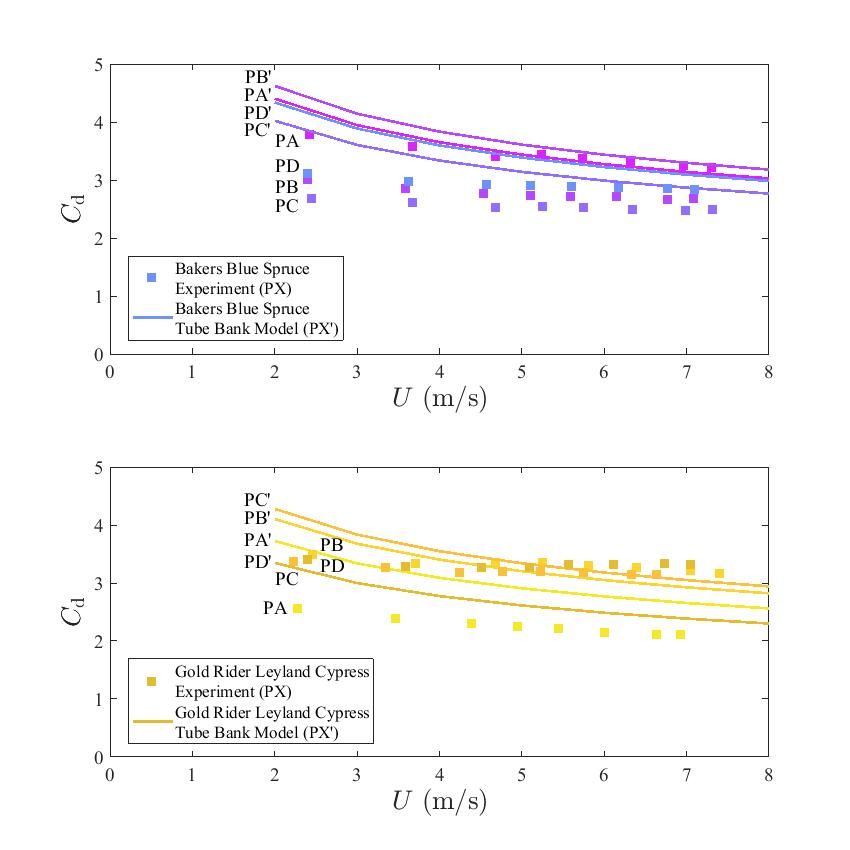
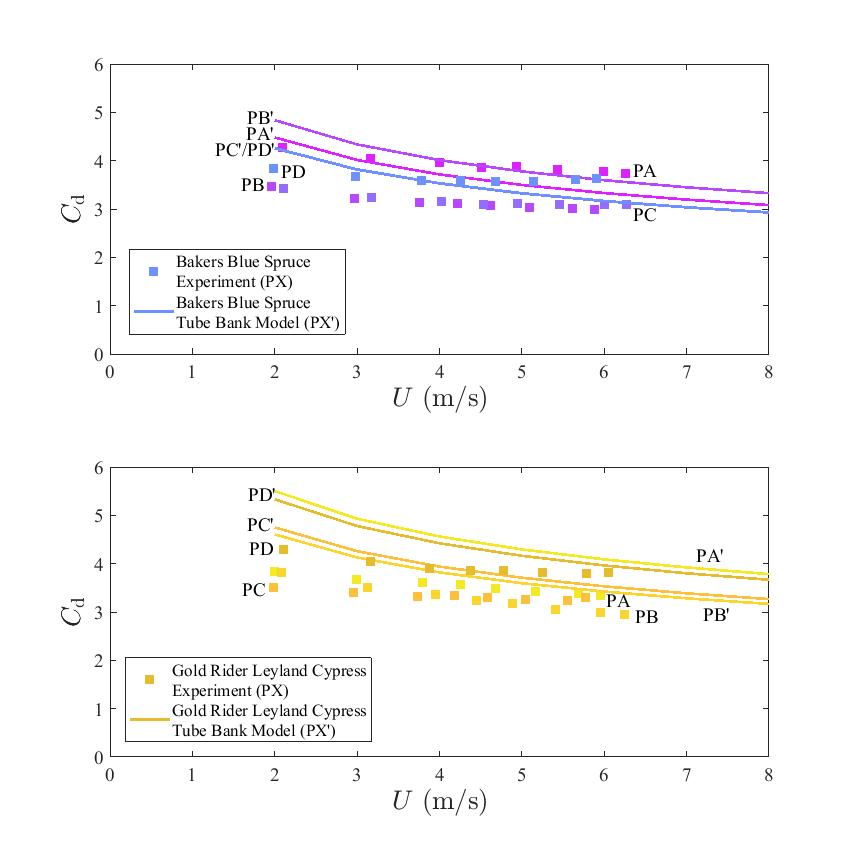
Edited Uncertainty and Tube Bank Section

diff --git a/Tech_Note/main.tex b/Tech_Note/main.tex
@@ -21,6 +21,7 @@
 \usepackage{secdot}
 \usepackage{siunitx} % Formats the units and values
 \usepackage{tabulary}
+%\usepackage{tablefootnote}
 \usepackage{textgreek}
 \usepackage{textcomp}
 \usepackage{tikz}
@@ -65,7 +66,7 @@
 \captionsetup{font=small,labelfont=bf,figurename=Fig.,labelsep=period,justification=raggedright}
 
 \newcommand*\textfrac[2]{
-  \frac{\textbf{#1}}{\textbf{#2}}
+  \frac{{#1}}{{#2}}
 }
 
 \makeatletter
@@ -324,7 +325,7 @@ A Type B, or epistemic, uncertainty of the free-area fraction and absorption coe
 \subsection{Description of the Wind Tunnel}
 \label{ssec:headingscap}
 
-Pressure loss measurements were obtained in a wind tunnel test section with a cross-sectional area of 0.5~\si{m} by 0.5~\si{m} and a length of 2~\si{m}. An image and schematic diagram of the wind tunnel setup is shown in Fig.~\ref{fig:WindtunnelPic}. The volume flow through the tunnel was measured upstream of the vegetation using a Rosemont~485 Annubar. The pressure drop across the vegetation was measured using an MKS Baratron Type 220D pressure transducer with a range of 0 to 133~Pa (1~torr). The air flow was provided by a 0.91~m axial fan controlled by a variable frequency drive and monitored using the Annubar. Air density was calculated from the tunnel's internal temperature measured with a Type-K thermocouple. Each sample configuration was subjected to nine different fan speeds ranging from 0 to 88~\% of the full-scale fan speed. The fan speed was not run at full scale due to the risk of exceeding the pressure transducer's pressure limitations. Data was sampled at 90~\si{Hz} for a 30~\si{s} period while maintaining a constant fan speed.
+Pressure loss measurements were obtained in a wind tunnel test section with a cross-sectional area of 0.5~\si{m} by 0.5~\si{m} and a length of 2~\si{m}. An image and schematic diagram of the wind tunnel setup is shown in Fig.~\ref{fig:WindtunnelPic}. The volume flow through the tunnel was measured upstream of the vegetation using a Rosemont~485 Annubar~\cite{Annubar}. The pressure drop across the vegetation was measured using an MKS Baratron Type 220D pressure transducer with a range of 0 to 133~Pa (1~torr). The air flow was provided by a 0.91~m axial fan controlled by a variable frequency drive and monitored using the Annubar. Air density was calculated from pressure, temperature, and relative humidity readings of the testing facility. Each sample configuration was subjected to nine different fan speeds ranging from 0 to 88~\% of the full-scale fan speed. The fan speed was not run at full scale due to the risk of exceeding the pressure transducer's pressure limitations. Data was sampled at 90~\si{Hz} for a 30~\si{s} period while maintaining a constant fan speed.
 
 \begin{figure} [!]
 	\centering 	
@@ -342,12 +343,12 @@ Pressure loss measurements were obtained in a wind tunnel test section with a cr
 
 Once a set of measurements were taken at all fan speeds, the wind tunnel was shut off for approximately 5~\si{min}, and then the measurements were repeated. All measurements were repeated three times for each vegetation configuration. The variance homogeneity of the replicate measurements was tested using Hartley's F\textsubscript{max} test. If it was found that the data sets were homogenous, then the measurements were averaged.
 
-An uncertainty analysis was conducted for the pressure and air density measurements and the subsequently determined velocities and drag coefficients.The characterization of the uncertainty for each parameter is provided in Appendix~\ref{sec:Uncertainty}.
+An uncertainty analysis was conducted for the pressure and air density measurements and the subsequently determined velocities and drag coefficients.The characterization of the uncertainty for each parameter is provided in Appendix~\ref{sec:UncertaintyDrag}.
 
 \subsection{Determining the Volume of Vegetation via Water Displacement}
 \label{ssec:waterdisp}
 
-The volume of the vegetation was measured after a sample cut. The extracted vegetation was separated into branches and leaves and put into cloth mesh bags of known mass and volume, weighed\footnote{The mass was measured to estimate the water absorbed by the sample. The volume of water absorbed was subtracted from the volume of vegetation measured from the beaker.}, and submerged in a bucket. The displaced water flowed through a spout and into a beaker (Fig.~\ref{fig:wdt}). The measurement was repeated three times for each sample. The solid fraction, $\beta$, was calculated by dividing the average sample volume by the volume it occupied (0.5~\si{m} $\times$ 0.5~\si{m} $\times$ 0.5~\si{m} = 0.125~\si{m^{3}}). A combined Type A, or aleatoric, and Type B uncertainty was established for solid fraction parameter and is described in Appendix~\ref{sec:Uncertainty}.
+The volume of the vegetation was measured after a sample cut. The extracted vegetation was separated into branches and leaves and put into cloth mesh bags of known mass and volume, weighed\footnote{The mass was measured to estimate the water absorbed by the sample. The volume of water absorbed was subtracted from the volume of vegetation measured from the beaker.}, and submerged in a bucket. The displaced water flowed through a spout and into a beaker (Fig.~\ref{fig:wdt}). The measurement was repeated three times for each sample. The solid fraction, $\beta$, was calculated by dividing the average sample volume by the volume it occupied (0.5~\si{m} $\times$ 0.5~\si{m} $\times$ 0.5~\si{m} = 0.125~\si{m^{3}}). A combined Type A, or aleatoric, and Type B uncertainty was established for solid fraction parameter and is described in Appendix~\ref{sec:UncertaintySolidFrac}.
 
 \begin{figure} [!]
 	\centering 	\includegraphics[height=0.95\textheight,keepaspectratio]{Picture7.jpg}
@@ -368,7 +369,7 @@ The key results of this work are the relationship between the absorption coeffic
 
 Figure~\ref{fig:betavkappa} presents the relationship between the absorption coefficient and solid fraction of all sample configurations. The symbols indicate the measured values while the dotted lines represent a linear regression fit. Each line represents a particular type of vegetation that has been pruned, reducing both its volume fraction its projected free-area coefficient, $W$, and corresponding the absorption coefficient, $\kappa$. There ought to be a linear relationship between $\kappa$ and $\beta$ if the shape factor, $C_{\rm s}$, and surface to volume ratio, $\sigma$ are constant, as shown in (Eq.~\ref{eq:Kappa}). However, this is not the case when the vegetative components are not uniform in size. Take, for example, the Robin Red Holly data shown in Fig.~\ref{fig:betavkappa}. As the solid fraction decreases, the absorption coefficient should approach zero, as demonstrated by most samples. As the leaves of the Robin Red Holly were pruned, its absorption coefficient, $\kappa$, decreased significantly even though its volume fraction did not, owing to the fact the ratio of branch to leaf volume of the Robin Red Holly is substantially higher than the other plant species, as shown in Table~\ref{tab:RatioTable},  As a result, the free-surface area, $W$, decreases from the removal of leaves, thus reducing the absorption coefficient, while still maintaining a relatively consistent solid fraction due to the significant volume contribution of the branches.
 
-\begin{figure}[!]
+\begin{figure}[!h]
 	\centering 	
     \includegraphics[width=1\linewidth]{Picture12.jpg}
 	\caption[Comparison of absorption coefficient, $\kappa$, and solid fraction, $\beta$]{Calculated absorption coefficients ($\kappa$) of vegetation sample configuration plotted against their corresponding solid fractions ($\beta$)}
@@ -377,14 +378,14 @@ Figure~\ref{fig:betavkappa} presents the relationship between the absorption coe
 
 
 
-\begin{table}[!]
+\begin{table}[!h]
 \caption[Branch and leaf volume ratio of vegetation samples]{Branch and leaf volume ratio of vegetation samples with mulitple cut iterations}
 \label{tab:RatioTable}
 \centering
 	
 	\begin{tabular}{cccccc}	
 			\hline
-\rule{0pt}{14pt}\textbf{Sample}	&\textbf{Cut}	& ${\textfrac{Branch Volume}{Leaf Volume}}$ 	&\textbf{Sample}			&	\textbf{Cut}	& $\textfrac{Branch Volume}{Leaf Volume}$	\\
+\rule{0pt}{14pt}\textbf{Sample}	&\textbf{Cut}	& $\textfrac{\textbf{Branch Volume}}{\textbf{Leaf Volume}}$	&\textbf{Sample}			&	\textbf{Cut}	& $\textfrac{\textbf{Branch Volume}}{\textbf{Leaf Volume}}$	\\
 \hline
 \\[0.01cm]
 Bakers Blue Spruce			&	0		&        1.1							&Gold Rider Leyland Cypress	&	0		&	1.5						\\
@@ -408,7 +409,7 @@ Evergreen Distylium			&	0		&	1.0							&Robin Red Holly			&	0		&	11						\\
 \subsection{Vegetation Canopy Drag Coefficients}
 \label{ssec:headingscap}
 
-Figure~\ref{fig:DPvU(Overall)} displays the relationship between the freestream velocity and the pressure drop for each sample configuration. The results demonstrate the expected quadratic relationship. Replotting the data as shown in Fig.~\ref{fig:DPoveraf(Overall)} yields the drag coefficient for each sample configuration as determined by calculating the slope of each line of data points. No linear regression fitting was observed to have a coefficient of determination value less than 0.98, indicating a close representation of the fitted regression line to the measured data. A summary of all 68 calculated drag coefficients and their respective uncertainties are presented in Table \ref{tab:SumTable}.
+Figure~\ref{fig:DPvU(Overall)} displays the relationship between the freestream velocity and the pressure drop for each sample configuration. The results demonstrate the expected quadratic relationship. Replotting the data as shown in Fig.~\ref{fig:DPoveraf(Overall)} yields the drag coefficient for each sample configuration as determined by calculating the slope of each line of data points. No linear regression fitting was observed to have a coefficient of determination value less than 0.98, indicating a close representation of the fitted regression line to the measured data. A summary of all 68 calculated drag coefficients and their respective uncertainties are presented in Table \ref{tab:SumTable}\footnote{The procedure for determining the drag coefficient uncertainty as shown in this table can be found in Appendix~\ref{sec:UncertaintyDrag}. For most instances, the uncertainty in the velocity measurment was found to be the primary contributor to the drag coefficient uncertainty. In other cases, the uncertainty of the measured pressure loss across the vegetation was the primary contributor to the drag coefficient uncertainty.}.
 
 \begin{sidewaysfigure} [!]
 	\centering
@@ -424,7 +425,7 @@ Figure~\ref{fig:DPvU(Overall)} displays the relationship between the freestream 
 	\label{fig:DPoveraf(Overall)}
 \end{sidewaysfigure}
 
-The distribution of all sample configurations' drag coefficient is shown in Fig.~\ref{fig:Histogram}. A Kolmogorov-Smirnov test (K-S test) was implemented to test the normality of the drag coefficient data. The K-S test determined that the drag coefficients of all sample configurations do not significantly vary from normality ($D(68)=\,0.09$)\footnote{The $D$ refers to the Kolmogorov-Smirnov test statistic, the 68 in brackets is the degrees of freedom (df), and the 0.09 is the actual K-S test statistic.}. The normal distribution of the data is further supported by the ``bell curve'' fitting displayed in  Fig.~\ref{fig:Histogram}. The average drag coefficient of all sample configurations was determined to be 2.8 with a standard deviation of 0.6.
+The distribution of all sample configurations' drag coefficient is shown in Fig.~\ref{fig:Histogram}. A Kolmogorov-Smirnov test (K-S test) was implemented to test the normality of the drag coefficient data. The K-S test determined that the drag coefficients of all sample configurations do not significantly vary ($D(68)=\,0.09$) from normality\footnote{The $D$ refers to the Kolmogorov-Smirnov test statistic, the 68 in brackets is the degrees of freedom (df), and the 0.09 is the actual K-S test statistic.}. The normal distribution of the data is further supported by the ``bell curve'' fitting displayed in  Fig.~\ref{fig:Histogram}. The average drag coefficient of all sample configurations was determined to be 2.8 with a standard deviation of 0.6.
 
 \begin{figure}[!h]
 	%\centering 	
@@ -433,7 +434,7 @@ The distribution of all sample configurations' drag coefficient is shown in Fig.
 	\label{fig:Histogram}
 \end{figure}
 
-\begin{table}
+\begin{table}[!]
 \caption{Drag Coefficient Summary of Vegetation Samples}
 \label{tab:SumTable}
 \centering
@@ -444,89 +445,88 @@ The distribution of all sample configurations' drag coefficient is shown in Fig.
 \textbf{Sample}		&	\textbf{Cut}	&\textbf{Position}& $C_{\rm d}$ 	&\textbf{Uncertainty}	&\textbf{Sample}	&	\textbf{Cut}	&\textbf{Position}& 	\textbf{$C_{\rm d}$ }&\textbf{Uncertainty}\\
 \hline
 \\[0.05cm]
-Blue Spruce				&	0	&	A	& 	3.6	&	0.4				& Cypress       		&	0	&	A	& 	3.0	&	0.4	\\
-					&		&	B	& 	3.2	&	0.4				&				&		&	B	& 	3.3	&	0.4	\\
-					&		&	C	& 	3.1	&	0.4				&				&		&	C	& 	3.4	&	0.5	\\
-					&		&	D	& 	3.0	&	0.4				&				&		&	D	& 	3.0	&	0.4	\\
-					&	1	&	A	& 	3.7	&	0.4				&				&	1	&	A	& 	3.3	&	0.4	\\
-					&		&	B	& 	3.0	&	0.4				&				&		&	B	& 	2.9	&	0.3	\\
-					&		&	C	& 	3.1	&	0.3				&				&		&	C	& 	3.3	&	0.4	\\
-					&		&	D	& 	3.6	&	0.4				&				&		&	D	& 	3.8	&	0.4	\\
-					&	2	&	A	& 	3.2	&	0.3				&				&	2	&	A	& 	2.1	&	0.2	\\
-					&		&	B	& 	2.7	&	0.3				&				&		&	B	& 	3.2	&	0.3	\\
-					&		&	C	& 	2.5	&	0.3				&				&		&	C	& 	3.1	&	0.3	\\
-					&		&	D	& 	2.8	&	0.3				&				&		&	D	& 	3.3	&	0.3	\\
-					&	3	&	A	& 	2.5	&	0.3				&				&	3	&	A	& 	2.9	&	0.4	\\
-					&		&	B	& 	2.3	&	0.4				&				&		&	B	& 	3.8	&	0.5	\\
-					&		&	C	& 	2.2	&	0.4				&				&		&	C	& 	3.0	&	0.4	\\
-					&		&	D	& 	2.3	&	0.4				&				&		&	D	& 	3.8	&	0.5	\\
+Blue Spruce				&	0	&	A	& 	3.6	&	0.9				& Cypress       		&	0	&	A	& 	3.0	&	0.9	\\
+					&		&	B	& 	3.1	&	0.8				&				&		&	B	& 	3.2	&	0.8	\\
+					&		&	C	& 	3.1	&	0.8				&				&		&	C	& 	3.4	&	1.0	\\
+					&		&	D	& 	3.0	&	0.8				&				&		&	D	& 	3.0	&	0.8	\\
+					&	1	&	A	& 	3.8	&	0.8				&				&	1	&	A	& 	3.3	&	0.8	\\
+					&		&	B	& 	3.0	&	0.7				&				&		&	B	& 	2.9	&	0.7	\\
+					&		&	C	& 	3.1	&	0.7				&				&		&	C	& 	3.3	&	0.8	\\
+					&		&	D	& 	3.6	&	0.8				&				&		&	D	& 	3.8	&	0.9	\\
+					&	2	&	A	& 	3.2	&	0.7				&				&	2	&	A	& 	2.1	&	0.5	\\
+					&		&	B	& 	2.6	&	0.6				&				&		&	B	& 	3.2	&	0.7	\\
+					&		&	C	& 	2.5	&	0.5				&				&		&	C	& 	3.1	&	0.7	\\
+					&		&	D	& 	2.8	&	0.6				&				&		&	D	& 	3.3	&	0.7	\\
+					&	3	&	A	& 	2.5	&	0.6				&				&	3	&	A	& 	2.9	&	0.7	\\
+					&		&	B	& 	2.3	&	0.7				&				&		&	B	& 	3.9	&	0.9	\\
+					&		&	C	& 	2.2	&	0.7				&				&		&	C	& 	3.0	&	0.8	\\
+					&		&	D	& 	2.2	&	0.7				&				&		&	D	& 	3.8	&	0.9	\\
 					&		&		& 		&					&				&		&		& 		&		\\
-White Pine	       			 &	0	&	A	& 	4.0	&	0.6				& Fern	       		 &	0	&	A	& 	3.2	&	0.4	\\
-					&		&	B	& 	2.5	&	0.3				&				&		&	B	& 	2.8	&	0.4	\\	
-					&		&	C	& 	1.9	&	0.3				&				&		&	C	& 	3.0	&	0.4	\\
-					&		&	D	& 	3.4	&	0.4				&				&		&	D	& 	2.4	&	0.3	\\
+White Pine	       			 &	0	&	A	& 	4.4	&	1.2				& Fern	       		 &	0	&	A	& 	3.4	&	0.9	\\
+					&		&	B	& 	2.8	&	0.7				&				&		&	B	& 	3.1	&	0.8	\\	
+					&		&	C	& 	2.1	&	0.6				&				&		&	C	& 	3.3	&	0.9	\\
+					&		&	D	& 	3.6	&	0.9				&				&		&	D	& 	2.6	&	0.7	\\
 					&		&		& 		&					&				&		&		& 		&		\\
-Distylium				&	0	&	A	& 	3.2	&	0.3				&Red Holly			&	0	&	A	& 	3.1	&	0.4	\\
-					&		&	B	& 	2.9	&	0.3				&				&		&	B	& 	2.6	&	0.3	\\
-					&		&	C	& 	3.1	&	0.3				&				&		&	C	& 	2.5	&	0.3	\\
-					&		&	D	& 	3.4	&	0.4				&				&		&	D	& 	2.7	&	0.3	\\
-					&	1	&	A	& 	2.7	&	0.3				&				&	1	&	A	& 	2.8	&	0.2	\\
-					&		&	B	& 	2.3	&	0.3				&				&		&	B	& 	2.0	&	0.2	\\
-					&		&	C	& 	3.1	&	0.3				&				&		&	C	& 	2.5	&	0.2	\\
-					&		&	D	& 	2.9	&	0.3				&				&		&	D	& 	1.8	&	0.2	\\
-					&	2	&	A	& 	2.0	&	0.3				&				&	2	&	A	& 	3.4	&	0.2	\\
-					&		&	B	& 	1.5	&	0.2				&				&		&	B	& 	2.2	&	0.2	\\
-					&		&	C	& 	1.7	&	0.2				&				&		&	C	& 	2.7	&	0.2	\\
-					&		&	D	& 	2.6	&	0.3				&				&		&	D	& 	2.5	&	0.2	\\
-					&		&		& 		&					&				&	3	&	A	& 	2.1	&	0.2	\\
-					&		&		& 		&					&				&		&	B	& 	1.6	&	0.2	\\
-					&		&		& 		&					&				&		&	C	& 	1.6	&	0.2	\\
-					&		&		& 		&					&				&		&	D	& 	1.7	&	0.2	\\
+Distylium				&	0	&	A	& 	3.2	&	0.7				&Red Holly			&	0	&	A	& 	3.1	&	0.8	\\
+					&		&	B	& 	2.9	&	0.7				&				&		&	B	& 	2.6	&	0.7	\\
+					&		&	C	& 	3.1	&	0.7				&				&		&	C	& 	2.5	&	0.7	\\
+					&		&	D	& 	3.4	&	0.8				&				&		&	D	& 	2.7	&	0.8	\\
+					&	1	&	A	& 	2.7	&	0.6				&				&	1	&	A	& 	2.8	&	0.6	\\
+					&		&	B	& 	2.3	&	0.5				&				&		&	B	& 	2.0	&	0.5	\\
+					&		&	C	& 	3.1	&	0.7				&				&		&	C	& 	2.5	&	0.6	\\
+					&		&	D	& 	2.9	&	0.7				&				&		&	D	& 	1.8	&	0.4	\\
+					&	2	&	A	& 	2.0	&	0.5				&				&	2	&	A	& 	3.4	&	0.6	\\
+					&		&	B	& 	1.5	&	0.4				&				&		&	B	& 	2.2	&	0.4	\\
+					&		&	C	& 	1.7	&	0.5				&				&		&	C	& 	2.7	&	0.5	\\
+					&		&	D	& 	2.6	&	0.6				&				&		&	D	& 	2.5	&	0.5	\\
+					&		&		& 		&					&				&	3	&	A	& 	2.1	&	0.5	\\
+					&		&		& 		&					&				&		&	B	& 	1.6	&	0.5	\\
+					&		&		& 		&					&				&		&	C	& 	1.6	&	0.5	\\
+					&		&		& 		&					&				&		&	D	& 	1.7	&	0.5	\\
 \\[0.05cm]
 \hline														
-
 \end{tabular}
 \end{table}
 
-To determine if the average drag coefficient depends on the type of vegetation a one-way analysis of variance (ANOVA) was implemented on the drag coefficients of the different vegetation samples. The analysis yielded a significant variation among the species ($F(5,62)=4.88$, $p=7.97 \times 10^{-4}$)\footnote{The $F$ refers to the statistic obtained from the F-test conducted in the ANOVA, the 5 and 62 in brackets represent the degrees of freedom, and the 4.88 is the actual F statistic derived from the ANOVA. The $p$ refers to the significance level determined from the F statistic and the $7.97 \times 10^{-4}$ is the actual p-value which was determined to be less than the chosen confidence level of 0.05, indicating a significant difference between the mean drag coefficients of the samples.} . A Tukey test was subsequently applied to if the species-specific average drag coefficients were significantly different from each other. The results showed one significant difference between the species' average drag coefficients: the Robin Red Holly and Gold-Rider Leyland Cypress. Despite this statistically significant difference, the average drag coefficients of the Robin Red Holly and Gold-Rider Leyland Cypress are both within one standard deviation away from the overall average drag coefficient, as demonstrated in Fig.~\ref{fig:Histogram},  and therefore is not large enough to have a practical implication. It can then be concluded that the variance of drag coefficients determined for each species is non-significant, meaning the overall average drag coefficient presented in Fig.~\ref{fig:Histogram} could be applied as a consistent drag coefficient for vegetation canopies in CFD models.
+To determine if the average drag coefficient depends on the type of vegetation a one-way analysis of variance (ANOVA) was implemented on the drag coefficients of the different vegetation samples. The analysis yielded a significant variation ($F(5,62)=4.88$, $p=7.97 \times 10^{-4}$) among the species\footnote{The $F$ refers to the statistic obtained from the F-test conducted in the ANOVA, the 5 and 62 in brackets represent the degrees of freedom, and the 4.88 is the actual F statistic derived from the ANOVA. The $p$ refers to the significance level determined from the F statistic and the $7.97 \times 10^{-4}$ is the actual p-value which was determined to be less than the chosen confidence level of 0.05, indicating a significant difference between the mean drag coefficients of the samples.}. A Tukey test was subsequently applied to if the species-specific average drag coefficients were significantly different from each other. The results showed one significant difference between the species' average drag coefficients: the Robin Red Holly and Gold-Rider Leyland Cypress. Despite this statistically significant difference, the average drag coefficients of the Robin Red Holly and Gold-Rider Leyland Cypress are both within one standard deviation away from the overall average drag coefficient, as demonstrated in Fig.~\ref{fig:Histogram},  and therefore is not large enough to have a practical implication. It can then be concluded that the variance of drag coefficients determined for each species is non-significant, meaning the overall average drag coefficient presented in Fig.~\ref{fig:Histogram} could be applied as a consistent drag coefficient for vegetation canopies in CFD models.
 
 \section{Comparison Between Vegetation Data and Tube Bank Models}
 \label{sec:comp}
 
 In comparison to previous work~\cite{Cao2012,Jalonen2014,Mayhead1973,Gillies2002,Ishikawa2006}, the magnitude of the measured drag coefficients in this study is relatively large. As discussed in Section~\ref{sec:intro}, most previous studies have measured the wind resistance of a single plant or tree within a larger wind tunnel while this work considered a relatively homogenous distribution of vegetation within a tunnel. The interpretation of ``freestream'' velocity, shape factor, cross-sectional area, and so on, are often different in these studies, making it difficult to compare drag coefficients from one study to another. Within the field, there is no single definition of drag coefficient in regard to vegetation.
 
-As a way to verify the accuracy of our wind tunnel measurements and the validity of our drag coefficient derivation, we considered a bank of regularly-spaced, staggered, vertical cylinders within our wind tunnel, using both actual steel rods and empirical results from Idelchick~\cite{Idelchick1994}. For each of the measured vegetation samples, a comparable configuration of vertical tubes was derived such that the volume fraction, $\beta$, absorption coefficient, $\kappa$, and characteristic diameter, $D$, match as closely as possible (see Table~\ref{tab:tube_parameters}). The characteristic diameter was calculated from Eq.~\ref{eq:Kappa} using the measured $\beta$ and $\kappa$ values and assuming a cylindrical shape factor ($C_{\mathrm{s}} = 1/\pi$). The expected pressure drop through the tube bank was either measured directly in the wind tunnel or taken from Idelchick (Eq.~\ref{eq:IdelchickTB}), and the corresponding drag coefficient was determined from Eq.~\ref{eq:Pressure}.
+As a way to verify the accuracy of our wind tunnel measurements and the validity of our drag coefficient derivation, we considered a bank of regularly-spaced, staggered, vertical cylinders within our wind tunnel, using both actual steel rods and empirical results from Idelchick~\cite{Idelchick1994}. For each of the measured vegetation samples, a comparable configuration of vertical tubes was derived such that the volume fraction, $\beta$, absorption coefficient, $\kappa$, and characteristic diameter, $D$, match as closely as possible (see Table~\ref{tab:tube_parameters}). The characteristic diameter was calculated from Eq.~\ref{eq:Kappa} using the measured $\beta$ and $\kappa$ values and assuming a cylindrical shape factor ($C_{\mathrm{s}} = 1/\pi$). To account for the repeated tube formation for each row, the $\kappa$ value of the tube bank was determined from the distance between rows, $L'$, and using Eq.~\ref{eq:WhiteFraction}. The expected pressure drop through the tube bank was either measured directly in the wind tunnel or taken from Idelchick (Eq.~\ref{eq:IdelchickTB}), and the corresponding drag coefficient was determined from Eq.~\ref{eq:Pressure}.
 \begin{equation}
 \label{eq:IdelchickTB}
-\Delta P = \frac{\rho}{2}\,\frac{A\, \mathrm{Re}^{-0.25}}{W^{2}}\, U^2
+\Delta P = \frac{\rho}{2}\,\frac{A\, \mathrm{Re}^{-0.27}}{W^{2}}\, U^2
 \end{equation}
-In Eq.~\ref{eq:IdelchickTB}, $A$ is defined as a geometric parameter determined from the tube bank configuration and Re is the Reynolds number which must be greater than 3000 for the empirical model to apply.
+In Eq.~\ref{eq:IdelchickTB}, $A$ is defined as a geometric parameter determined from the tube bank configuration and Re is the Reynolds number which must be greater than 3000 for the empirical model to apply. 
 
 \begin{table}[!]
     \centering
     \caption{Parameters used in comparing vegetation with a comparable tube bank configuration}
     \label{tab:tube_parameters}
-    \begin{tabular}{|c|c|c|c|c|c|c|c|c|}
+    \begin{tabular}{|c|c|c|c|c|c|c|c|c|c|}
     \hline
-                                 & \multicolumn{2}{|c|}{$\beta$ (\%)} & \multicolumn{2}{|c|}{$\kappa$ (m$^{-1}$)} & \multicolumn{2}{|c|}{$D$ (mm)} &                             &                                  \\ \cline{2-7}
-    \raisebox{1.5ex}[0pt]{Pos.}  & Veg.             & Tubes      & Veg.                 & Tubes              & Veg.              & Tubes      & \raisebox{1.5ex}[0pt]{Rows} & \raisebox{1.5ex}[0pt]{Tubes/Row} \\ \hline \hline
-    \multicolumn{9}{|c|}{Gold Rider Leyland Cypress, Cut 2}                                                                                                                                                    \\ \hline
-    A                            & 1.2            & 1.1      & 1.8                  & 1.7                & 8.5               & 9.5        & 4                           & 5                                \\ \hline
-    B                            & 1.2            &1.2      & 1.3                  & 1.3                & 11.6              & 12.6       & 4                           & 3                                \\ \hline
-    C                            & 1.2            & 1.3      & 1.7                  & 1.8                & 9.3               & 10.1       & 5                           & 4                                \\ \hline
-    D                            & 1.2           & 1.2      & 1.3                  & 1.3                & 11.9              & 13.8       & 2                           & 5                                \\ \hline
-        \multicolumn{9}{|c|}{Bakers Blue Spruce, Cut 2}                                                                                                                                                    \\ \hline
-    A                            &1.2           & 1.1      & 1.5                  & 1.4                & 10.1              & 10.8       & 5                           & 3                                \\ \hline
-    B                            & 1.2          & 1.1      & 1.6                  & 1.5                & 9.2               & 9.8        & 6                           & 3                                \\ \hline
-    C                            & 1.2            & 1.1     & 1.5                  & 1.5                & 9.7               & 10.6       & 4                           & 4                                \\ \hline
-    D                            & 1.2            & 1.2      & 1.6                  & 1.7                & 9.0               & 9.7        & 5                           & 4                                \\ \hline
+                                 & \multicolumn{2}{|c|}{$\beta$ (\%)} & \multicolumn{2}{|c|}{$\kappa$ (m$^{-1}$)} & \multicolumn{2}{|c|}{$D$ (mm)} &                             &                         &         \\ \cline{2-7}
+    \raisebox{1.5ex}[0pt]{Pos.}  & Veg.             & Tubes      & Veg.                 & Tubes              & Veg.              & Tubes      & \raisebox{1.5ex}[0pt]{Rows} & \raisebox{1.5ex}[0pt]{$\textfrac{\rm{Tubes}}{\rm{Row}}$} &\raisebox{1.5ex}[0pt]{$L'$ (cm)}\\ \hline \hline
+    \multicolumn{10}{|c|}{Bakers Blue Spruce, Cut 1}                                                                                                                                                    \\ \hline
+    A                            & 1.8            & 1.8      & 2.4                  & 2.4                & 9.4               & 10.6        & 5                           & 10           &          1.0           \\ \hline
+    B                            & 1.8            &1.8     & 2.6                & 2.6               &8.6               & 9.5       & 7                           & 9                      &         0.7  \\ \hline
+    C                            & 1.8            & 1.7      & 2.3                  & 2.3                & 9.7               & 11.2       &4                            & 11            &      1.3             \\ \hline
+    D                            & 1.8           & 1.8      & 2.5                 & 2.5               & 8.9             & 10.4       & 4                           & 13                 &  1.3              \\ \hline
+        \multicolumn{10}{|c|}{Gold Rider Leyland Cypress, Cut 1}                                                                                                                                                    \\ \hline
+    A                            &1.4           & 1.4      & 2.1                  & 2.2                & 8.3              & 8.9       & 7                           & 8                 &   0.7         \\ \hline
+    B                            & 1.4          & 1.4      & 1.9                  & 2.0               & 9.2               & 10.7        & 3                           & 13            &   1.7                  \\ \hline
+    C                            & 1.4           & 1.4     & 2.2                  & 2.2                & 8.1               & 9.3       & 4                          & 13               &   1.3       \\ \hline
+    D                            & 1.4            & 1.4      & 1.9                  & 1.9                & 9.4               & 10.2       & 6                          & 7              &   0.8             \\ \hline
     \end{tabular}
 \end{table}
 
 \begin{figure}[!]
 	\centering 	
 \includegraphics[width=1\linewidth]{Picture13.jpg}
-	\caption[Drag Coefficient comparison between vegetation samples and tube bank configurations]{Drag Coefficient comparison between vegetation sample configurations (Bakers Blue Spruce, Cut 2 and Gold Rider Leyland Cypress, Cut 2) and thier corresponding tube bank configuration with respect to velocity}
+	\caption[Drag Coefficient comparison between vegetation samples and tube bank configurations]{Drag Coefficient comparison between vegetation sample configurations (Bakers Blue Spruce, Cut 1 and Gold Rider Leyland Cypress, Cut 1) and thier corresponding tube bank configuration with respect to velocity}
 	\label{fig:TBGR}
 \end{figure}
 
@@ -568,8 +568,8 @@ This report documents a series of experiments implemented to determine the absor
 % "activate" the preparatory code, but for section-level headers only
 \newcommand{\section@cntformat}{Appendix:\ }
 \makeatother
-\section{Uncertainty Analysis} \label{sec:Uncertainty}
-\addcontentsline{toc}{section}{Appendix A: Uncertainty Analysis}
+\section{Uncertainty Analysis of the Drag Coefficient} \label{sec:UncertaintyDrag}
+\addcontentsline{toc}{section}{Appendix A: Uncertainty Analysis of the Drag Coefficient}
 
 The drag coefficient was calculated using a combination of Eqs.~(\ref{eq:WhiteFraction}) and (\ref{eq:Pressure}):
 \begin{equation}\label{eq:drag_coefficient}
@@ -591,21 +591,28 @@ The uncertainty of the free-area coefficient was determined by measuring the pro
 \subsection{Pressure}
 \label{ssec:PressUncertainty}
 
-Two pressure transducers were used in this study. Transducer 1 measured the differential pressure across the vegetation while Transducer 2 measured the differential pressure across the Annubar. The Type A evaluation of standard uncertainty of the pressure difference, $\Delta P$, was taken as the standard deviation of the measurements made during a 30~s period, $s_{\scriptscriptstyle \Delta P}$. The Type B evaluation of standard uncertainty was determined from the calibration error sources of the pressure transducers and was found to be $u_{\rm \scriptscriptstyle cal}=1.4$~Pa and $u_{\rm \scriptscriptstyle cal}=1.5$~Pa for Transducers 1 and 2, respectively. The combined uncertainty was found via quadrature:
+Two pressure transducers were used in this study. Transducer 1 measured the differential pressure across the vegetation while Transducer 2 measured the differential pressure across the Annubar. The Type A evaluation of standard uncertainty of the pressure difference, $\Delta P$, was taken as the standard deviation of the measurements sampled at 90~\si{Hz} for a 30~\si{s} period while maintaining a constant fan speed, $s_{\scriptscriptstyle \Delta P}$. The Type B evaluation of standard uncertainty was determined from the calibration error sources of the pressure transducers and was found to be $u_{\rm \scriptscriptstyle cal}=1.4$~Pa and $u_{\rm \scriptscriptstyle cal}=1.5$~Pa for Transducers 1 and 2, respectively. The combined uncertainty was found via quadrature with a coverage factor of two, assuming a level of confidence of approximately 95~\%:
 \begin{equation}
 \label{eq:pressureuncertainty}
 u_{\scriptscriptstyle \Delta P} = \sqrt{ u_{\rm \scriptscriptstyle cal}^2 + s_{\scriptscriptstyle \Delta P}^2}
 \end{equation}
 
-
 \subsection{Air Density}
 \label{ssec:ADUncertainty}
 
-The density of air was determined from the equation of state
+The density of air was determined from the absolute pressure, temperature, and relative humidity readings obtained simultaneously with the wind tunnel measurements:
 \begin{equation}
-   \rho = \frac{ 29 \, P }{8314 \, T}
+\rho  =  \frac{P - \phi\,P_{\mathrm{sat}}}{R_d\,T}+\frac{\phi\,P_{\mathrm{sat}}}{R_v\,T}
 \end{equation}
-The combined standard uncertainty in the measured air temperature was XX~K. The combined standard uncertainty in the atmospheric pressure was XX~Pa. Therefore, the combined standard uncertainty in the air density was $u_{\scriptscriptstyle \rho}=YY$~kg/m$^3$.
+where $T$ is the measured air temperature,$\phi$ is the relative humidity, $P$ and $P_{\rm{sat}}$ are the absolute and saturation vapor pressures, respectively, and  $R_d$ and $R_v$ are the specific gas constants for dry air (287~\si{\frac{J}{kg\,K}}) and water vapor (461~\si{\frac{J}{kg\,K}}), respectively. The saturation vapor pressure was calculated from the temperature readings of the testing facility:
+\begin{equation}
+P_{\mathrm{sat}} =6.1078\, \times \, 10^{\frac{7.5\,T}{T+237.3}}
+\end{equation}
+The Type A evaluation of uncertainty of air density was determined from the standard uncertainty of the absolute pressure, $s_{\scriptscriptstyle P}$, temperature, $s_{\scriptscriptstyle T}$, and relative humidity, $s_{\scriptscriptstyle \phi}$, readings of the testing facility. The standard uncertainty of the air density was determined through the law propogation of uncertainties with a coverage factor of two, assuming a level of confidence of approximately 95~\%:
+\begin{equation}
+\label{eq:Densityuncertainty}
+u_{\scriptscriptstyle \rho} = \sqrt{{\left( \frac{\partial \rho}{\partial P}\,s_{\scriptscriptstyle P} \right) }^2+{\left(\frac{\partial \rho}{\partial T}\,s_{\scriptscriptstyle T}\right)}^2+{\left(\frac{\partial \rho}{\partial \phi}\,s_{\scriptscriptstyle \phi}\right)}^2}
+\end{equation}
 
 
 \subsection{Velocity}
@@ -616,19 +623,22 @@ The average air velocity through the wind tunnel, $U$, was measured using an Ann
 \label{eq:Velocity}
 U = K \, \sqrt{\frac{2 \, \Delta P}{\rho}}
 \end{equation}
-where $K$ is a flow coefficient and $\Delta P$ is the pressure difference measured by Transducer~2 discussed above. The standard uncertainty of the velocity was determined through the law of propagation of uncertainties:
+where $K$ is a flow coefficient and $\Delta P$ is the pressure difference measured by Transducer~2 discussed above. The Type B evaluation of standard uncertainty of the flow coefficient was assumed to be 5~\% of the reading~\footnote{A 485 Calibrated Annubar is reported to have an accuracy of 0.5~\% in circular ducts as reported by \cite{Annubar}. However, since an Annubar was used in a square duct in these experiments, the uncertainty of the flow coefficient was adjusted to 5~\% as recommended by personal recommendation from the manufacturer.}. The standard uncertainty of the velocity was determined through the law of propagation of uncertainties:
 \begin{equation}
 \label{eq:Velocityuncertainty}
-u_{\scriptscriptstyle U} = \sqrt{{\left( \frac{\partial U}{\partial \Delta P}\,u_{\scriptscriptstyle \Delta P} \right) }^2+{\left(\frac{\partial U}{\partial \rho}\,u_{\scriptscriptstyle \rho}\right)}^2}
+u_{\scriptscriptstyle U} = \sqrt{{\left( \frac{\partial U}{\partial \Delta P}\,u_{\scriptscriptstyle \Delta P} \right) }^2+{\left(\frac{\partial U}{\partial \rho}\,u_{\scriptscriptstyle \rho}\right)}^2+{\left(\frac{\partial U}{\partial K}\,u_{\scriptscriptstyle K}\right)}^2}
 \end{equation}
 
+\pagebreak
 
-\subsection{Solid Fraction}\label{ssec:SFUncertainty}
-The solid fraction of the vegetation, $\beta$, was determined using the water displacement testing described in Section~\ref{ssec:waterdisp}. The uncertainty of the solid fraction combined the Type A uncertainty of the repeated volume measurements and the Type B uncertainty in the resolution of the beaker used to measure the volume (5 ml) and Load Cell used to measure the mass (0.005 kg). The Type A uncertainty was calculated from the product of standard deviation of the repeated $\beta$ measurements and a coverage factor of 2, assuming a level of confidence of approximately 95~\%.
+\section{Uncertainty Analysis of the Solid Fraction} \label{sec:UncertaintySolidFrac}
+\addcontentsline{toc}{section}{Appendix B: Uncertainty Analysis of the Solid Fraction}
+
+The solid fraction of the vegetation, $\beta$, was determined using the water displacement testing described in Section~\ref{ssec:waterdisp}. The Type A evaluation of standard uncertainty was taken as the standard deviation of the repeated solid fraction measurements, $s_{\scriptscriptstyle \beta}$. The Type B evaluation of the standard uncertainty was determined as the resolution of the beaker (5 ml) and load cell (0.005 kg) used to measure the volume and mass, respectively. The combined uncertainty was calculated via quadrature with a coverage factor of two, assuming a level of confidence of approximately 95~\%:
 
 \begin{equation}
 \label{eq:betauncertainty}
-\mu_{\beta} = \sqrt{{(\mu_{B\,Res.})^2+(\mu_{L.C.,\,Res.})^2+(2\,S_{\beta})}^2}
+u_{\beta} = \sqrt{{(u_{\rm{B\,Res.}})^2+(u_{\rm{L.C.,\,Res.}})^2+(s_{\beta})}^2}
 \end{equation}
 
 
